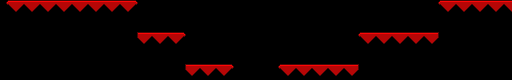
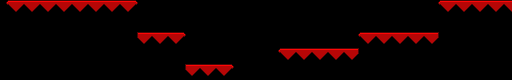
Raised platform in main level

Changed region(s): [[0.5312, 0.8, 0.7188, 0.95], [0.5312, 0.6, 0.7188, 0.75]]

diff --git a/assets/images/Stages/Level-1/Main-1/Main/Binary/Level-1-Main-1-Main-3.c b/assets/images/Stages/Level-1/Main-1/Main/Binary/Level-1-Main-1-Main-3.c
@@ -558,25 +558,7 @@ const unsigned short Level_1_Main_1_Main_3Map[4096] __attribute__((aligned(4)))=
 	0x0009,0x000A,0x0009,0x000A,0x0009,0x000A,0x0009,0x000A,
 	0x0009,0x000A,0x0009,0x000A,0x0009,0x0038,0x0009,0x000A,
 	0x0009,0x000A,0x0009,0x0006,0x0000,0x0000,0x0000,0x0000,
-	0x0000,0x0000,0x0000,0x0000,0x0000,0x0000,0x0000,0x0000,
-	0x0000,0x0000,0x0000,0x0000,0x0000,0x0000,0x0000,0x0000,
-	0x2006,0x000A,0x0009,0x000A,0x0009,0x000A,0x0009,0x000A,
-	0x0009,0x000A,0x0039,0x000A,0x0009,0x000A,0x0009,0x000A,
-	0x0009,0x000A,0x0009,0x000A,0x0009,0x000A,0x0009,0x000A,
-
-	0x0007,0x0008,0x0007,0x0008,0x0007,0x0008,0x0007,0x0008,
-	0x0007,0x0008,0x0007,0x0008,0x0007,0x003A,0x0007,0x0008,
-	0x0007,0x0008,0x0007,0x0006,0x0000,0x0000,0x0000,0x0000,
-	0x0000,0x0000,0x0000,0x0000,0x0000,0x0000,0x0000,0x0000,
-	0x0000,0x0000,0x0000,0x0000,0x0000,0x0000,0x0000,0x0000,
-	0x2006,0x0008,0x0007,0x0008,0x0007,0x0008,0x0007,0x0008,
-	0x0007,0x0008,0x003B,0x0008,0x0007,0x0008,0x0007,0x0008,
-	0x0007,0x0008,0x0007,0x0008,0x0007,0x0008,0x0007,0x0008,
-
-	0x0009,0x000A,0x0009,0x000A,0x0009,0x000A,0x0009,0x000A,
-	0x0009,0x000A,0x0009,0x000A,0x0009,0x0038,0x0009,0x000A,
-	0x0009,0x000A,0x0009,0x0035,0x0002,0x2002,0x0002,0x2002,
-	0x2001,0x0003,0x0000,0x0000,0x0000,0x0000,0x2003,0x0001,
+	0x0000,0x0000,0x0000,0x0000,0x0000,0x0000,0x2003,0x0001,
 	0x0002,0x2002,0x0002,0x2002,0x0002,0x2002,0x0002,0x2002,
 	0x2035,0x000A,0x0009,0x000A,0x0009,0x000A,0x0009,0x000A,
 	0x0009,0x000A,0x0039,0x000A,0x0009,0x000A,0x0009,0x000A,
@@ -584,10 +566,28 @@ const unsigned short Level_1_Main_1_Main_3Map[4096] __attribute__((aligned(4)))=
 
 	0x0007,0x0008,0x0007,0x0008,0x0007,0x0008,0x0007,0x0008,
 	0x0007,0x0008,0x0007,0x0008,0x0007,0x003A,0x0007,0x0008,
-	0x0007,0x0008,0x0007,0x0036,0x000D,0x000C,0x000D,0x000C,
-	0x000D,0x0006,0x0000,0x0000,0x0000,0x0000,0x2006,0x000C,
+	0x0007,0x0008,0x0007,0x0006,0x0000,0x0000,0x0000,0x0000,
+	0x0000,0x0000,0x0000,0x0000,0x0000,0x0000,0x2006,0x000C,
 	0x000D,0x000C,0x000D,0x000C,0x000D,0x000C,0x000D,0x000C,
 	0x0037,0x0008,0x0007,0x0008,0x0007,0x0008,0x0007,0x0008,
+	0x0007,0x0008,0x003B,0x0008,0x0007,0x0008,0x0007,0x0008,
+	0x0007,0x0008,0x0007,0x0008,0x0007,0x0008,0x0007,0x0008,
+
+	0x0009,0x000A,0x0009,0x000A,0x0009,0x000A,0x0009,0x000A,
+	0x0009,0x000A,0x0009,0x000A,0x0009,0x0038,0x0009,0x000A,
+	0x0009,0x000A,0x0009,0x0035,0x0002,0x2002,0x0002,0x2002,
+	0x2001,0x0003,0x0000,0x0000,0x0000,0x0000,0x2006,0x000A,
+	0x0009,0x000A,0x0009,0x000A,0x0009,0x000A,0x0009,0x000A,
+	0x0039,0x000A,0x0009,0x000A,0x0009,0x000A,0x0009,0x000A,
+	0x0009,0x000A,0x0039,0x000A,0x0009,0x000A,0x0009,0x000A,
+	0x0009,0x000A,0x0009,0x000A,0x0009,0x000A,0x0009,0x000A,
+
+	0x0007,0x0008,0x0007,0x0008,0x0007,0x0008,0x0007,0x0008,
+	0x0007,0x0008,0x0007,0x0008,0x0007,0x003A,0x0007,0x0008,
+	0x0007,0x0008,0x0007,0x0036,0x000D,0x000C,0x000D,0x000C,
+	0x000D,0x0006,0x0000,0x0000,0x0000,0x0000,0x2006,0x0008,
+	0x0007,0x0008,0x0007,0x0008,0x0007,0x0008,0x0007,0x0008,
+	0x003B,0x0008,0x0007,0x0008,0x0007,0x0008,0x0007,0x0008,
 	0x0007,0x0008,0x003B,0x0008,0x0007,0x0008,0x0007,0x0008,
 	0x0007,0x0008,0x0007,0x0008,0x0007,0x0008,0x0007,0x0008,
 };

diff --git a/assets/images/Stages/Level-1/Main-1/MainFront/Binary/Level-1-Main-1-MainFront-3b.c b/assets/images/Stages/Level-1/Main-1/MainFront/Binary/Level-1-Main-1-MainFront-3b.c
@@ -73,24 +73,6 @@ const unsigned short Level_1_Main_1_MainFront_3bMap[640] __attribute__((aligned(
 	0x0000,0x0000,0x0000,0x0000,0x0000,0x0000,0x0000,0x0000,
 	0x0000,0x0000,0x0000,0x0000,0x0000,0x0000,0x0000,0x0000,
 	0x0000,0x0000,0x0000,0x0000,0x0000,0x0000,0x0000,0x0000,
-	0x0000,0x0000,0x0000,0x0000,0x0000,0x0000,0x0000,0x0000,
-	0x0000,0x0000,0x0000,0x0000,0x0000,0x0000,0x0000,0x0000,
-	0x0000,0x0000,0x0000,0x0000,0x0000,0x0000,0x0000,0x0000,
-	0x0000,0x0000,0x0000,0x0000,0x0000,0x0000,0x0000,0x0000,
-
-	0x0000,0x0000,0x0000,0x0000,0x0000,0x0000,0x0000,0x0000,
-	0x0000,0x0000,0x0000,0x0000,0x0000,0x0000,0x0000,0x0000,
-	0x0000,0x0000,0x0000,0x0000,0x0000,0x0000,0x0000,0x0000,
-	0x0000,0x0000,0x0000,0x0000,0x0000,0x0000,0x0000,0x0000,
-	0x0000,0x0000,0x0000,0x0000,0x0000,0x0000,0x0000,0x0000,
-	0x0000,0x0000,0x0000,0x0000,0x0000,0x0000,0x0000,0x0000,
-	0x0000,0x0000,0x0000,0x0000,0x0000,0x0000,0x0000,0x0000,
-	0x0000,0x0000,0x0000,0x0000,0x0000,0x0000,0x0000,0x0000,
-
-	0x0000,0x0000,0x0000,0x0000,0x0000,0x0000,0x0000,0x0000,
-	0x0000,0x0000,0x0000,0x0000,0x0000,0x0000,0x0000,0x0000,
-	0x0000,0x0000,0x0000,0x0000,0x0000,0x0000,0x0000,0x0008,
-	0x2005,0x0005,0x2005,0x0005,0x2005,0x0006,0x0000,0x0000,
 	0x0000,0x0000,0x2006,0x0005,0x2005,0x0005,0x2005,0x0005,
 	0x2005,0x0005,0x2005,0x0005,0x2008,0x0000,0x0000,0x0000,
 	0x0000,0x0000,0x0000,0x0000,0x0000,0x0000,0x0000,0x0000,
@@ -98,10 +80,28 @@ const unsigned short Level_1_Main_1_MainFront_3bMap[640] __attribute__((aligned(
 
 	0x0000,0x0000,0x0000,0x0000,0x0000,0x0000,0x0000,0x0000,
 	0x0000,0x0000,0x0000,0x0000,0x0000,0x0000,0x0000,0x0000,
-	0x0000,0x0000,0x0000,0x0000,0x0000,0x0000,0x0000,0x0007,
-	0x2007,0x0007,0x2007,0x0007,0x2007,0x0000,0x0000,0x0000,
+	0x0000,0x0000,0x0000,0x0000,0x0000,0x0000,0x0000,0x0000,
+	0x0000,0x0000,0x0000,0x0000,0x0000,0x0000,0x0000,0x0000,
 	0x0000,0x0000,0x0000,0x0007,0x2007,0x0007,0x2007,0x0007,
 	0x2007,0x0007,0x2007,0x0007,0x2007,0x0000,0x0000,0x0000,
+	0x0000,0x0000,0x0000,0x0000,0x0000,0x0000,0x0000,0x0000,
+	0x0000,0x0000,0x0000,0x0000,0x0000,0x0000,0x0000,0x0000,
+
+	0x0000,0x0000,0x0000,0x0000,0x0000,0x0000,0x0000,0x0000,
+	0x0000,0x0000,0x0000,0x0000,0x0000,0x0000,0x0000,0x0000,
+	0x0000,0x0000,0x0000,0x0000,0x0000,0x0000,0x0000,0x0008,
+	0x2005,0x0005,0x2005,0x0005,0x2005,0x0006,0x0000,0x0000,
+	0x0000,0x0000,0x0000,0x0000,0x0000,0x0000,0x0000,0x0000,
+	0x0000,0x0000,0x0000,0x0000,0x0000,0x0000,0x0000,0x0000,
+	0x0000,0x0000,0x0000,0x0000,0x0000,0x0000,0x0000,0x0000,
+	0x0000,0x0000,0x0000,0x0000,0x0000,0x0000,0x0000,0x0000,
+
+	0x0000,0x0000,0x0000,0x0000,0x0000,0x0000,0x0000,0x0000,
+	0x0000,0x0000,0x0000,0x0000,0x0000,0x0000,0x0000,0x0000,
+	0x0000,0x0000,0x0000,0x0000,0x0000,0x0000,0x0000,0x0007,
+	0x2007,0x0007,0x2007,0x0007,0x2007,0x0000,0x0000,0x0000,
+	0x0000,0x0000,0x0000,0x0000,0x0000,0x0000,0x0000,0x0000,
+	0x0000,0x0000,0x0000,0x0000,0x0000,0x0000,0x0000,0x0000,
 	0x0000,0x0000,0x0000,0x0000,0x0000,0x0000,0x0000,0x0000,
 	0x0000,0x0000,0x0000,0x0000,0x0000,0x0000,0x0000,0x0000,
 };

diff --git a/assets/stages/Level1/Definition/Level1MainStageDefinition.c b/assets/stages/Level1/Definition/Level1MainStageDefinition.c
@@ -270,7 +270,7 @@ PositionedEntityROMDef LEVEL_1_MAIN_1_MAIN_3_COLLISIONS_3[] =
 
 PositionedEntityROMDef LEVEL_1_MAIN_1_MAIN_3_COLLISIONS_4[] =
 {
-	{&COLLISION_CL,					{FTOFIX19_13(48),	FTOFIX19_13(264),	FTOFIX19_13(0)},	0, NULL, NULL, (void*)&collision_14_6_1, false}, // lowest right step
+	{&COLLISION_CL,					{FTOFIX19_13(48),	FTOFIX19_13(248),	FTOFIX19_13(0)},	0, NULL, NULL, (void*)&collision_14_6_1, false}, // lowest right step
 	{&COLLISION_CL,					{FTOFIX19_13(128),	FTOFIX19_13(232),	FTOFIX19_13(0)},	0, NULL, NULL, (void*)&collision_14_6_1, false}, // 2nd lowest right step
 
 	{NULL, {0,0,0}, 0, NULL, NULL, NULL, false},
@@ -425,7 +425,6 @@ PositionedEntityROMDef LEVEL_1_MAIN_STAGE_ST_CHILDREN[] =
 	{&COIN_AG,						{FTOFIX19_13(988),	FTOFIX19_13(356), 	FTOFIX19_13(LAYER_0_ITEMS)},			11, NULL, NULL, NULL, false},
 	{&GRASS_AG,						{FTOFIX19_13(1052), FTOFIX19_13(408), 	FTOFIX19_13(LAYER_0_BACKGROUND)},		0, NULL, NULL, NULL, false},
 	{&DOOR_AG,						{FTOFIX19_13(1086), FTOFIX19_13(208), 	FTOFIX19_13(LAYER_0_DOORS)},			0, "IntEntrD", NULL, (void*)&LEVEL1_INTERSECTION_STAGE_UPPER_EP, false},
-	{&DOUBLE_JUMP_SIGN_IM,			{FTOFIX19_13(1244), FTOFIX19_13(464), 	FTOFIX19_13(LAYER_0_BACKGROUND)},		0, NULL, NULL, NULL, false},
 
 	{&WATERFALL_TOP_AG,				{FTOFIX19_13(1156),	FTOFIX19_13(346), 	FTOFIX19_13(LAYER_0_FOREGROUND)},		0, NULL, NULL, NULL, false},
 	{&WATERFALL_STREAM_AG,			{FTOFIX19_13(1156),	FTOFIX19_13(458), 	FTOFIX19_13(0)}, 						0, NULL, NULL, NULL, false},
@@ -433,7 +432,8 @@ PositionedEntityROMDef LEVEL_1_MAIN_STAGE_ST_CHILDREN[] =
 	{&WATER_EN,						{FTOFIX19_13(1173),	FTOFIX19_13(474), 	FTOFIX19_13(LAYER_0_FOREGROUND + 1)},	0, NULL, NULL, NULL, false},
 
 	{&SAW_BLADE_V3_AC,				{FTOFIX19_13(1197), FTOFIX19_13(472), 	FTOFIX19_13(LAYER_0_ENEMIES)},			0, NULL, NULL, NULL, false},
-	{&GRASS_AG,						{FTOFIX19_13(1280), FTOFIX19_13(472), 	FTOFIX19_13(LAYER_0_BACKGROUND)},		0, NULL, NULL, NULL, false},
+	{&DOUBLE_JUMP_SIGN_IM,			{FTOFIX19_13(1244), FTOFIX19_13(448), 	FTOFIX19_13(LAYER_0_BACKGROUND)},		0, NULL, NULL, NULL, false},
+	{&GRASS_AG,						{FTOFIX19_13(1280), FTOFIX19_13(456), 	FTOFIX19_13(LAYER_0_BACKGROUND)},		0, NULL, NULL, NULL, false},
 	{&COIN_AG,						{FTOFIX19_13(1340), FTOFIX19_13(432), 	FTOFIX19_13(LAYER_0_ITEMS)},			12, NULL, NULL, NULL, false},
 	{&COIN_AG,						{FTOFIX19_13(1356), FTOFIX19_13(432), 	FTOFIX19_13(LAYER_0_ITEMS)},			13, NULL, NULL, NULL, false},
 	{&DOOR_AG,						{FTOFIX19_13(1373), FTOFIX19_13(272), 	FTOFIX19_13(LAYER_0_DOORS)},			0, "IntExitD", NULL, (void*)&LEVEL1_INTERSECTION_STAGE_EXIT_EP, false},

diff --git a/source/game.c b/source/game.c
@@ -35,7 +35,7 @@
 int main(void)
 {
 	// start the game
-	Game_start(Game_getInstance(), __SAFE_CAST(GameState, PlatformerLevelState_getInstance()));
+	Game_start(Game_getInstance(), __SAFE_CAST(GameState, PrecautionScreenState_getInstance()));
 
 	// end program
 	return true;
